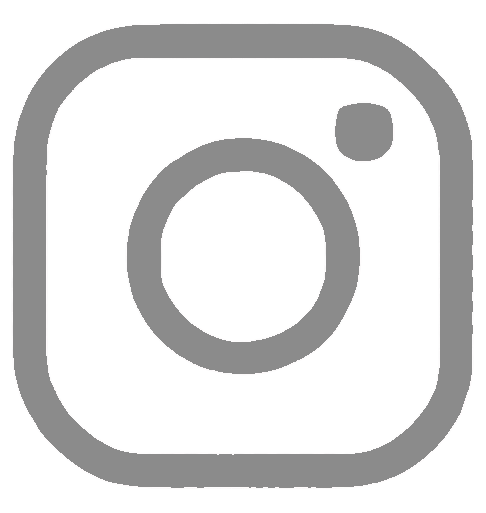
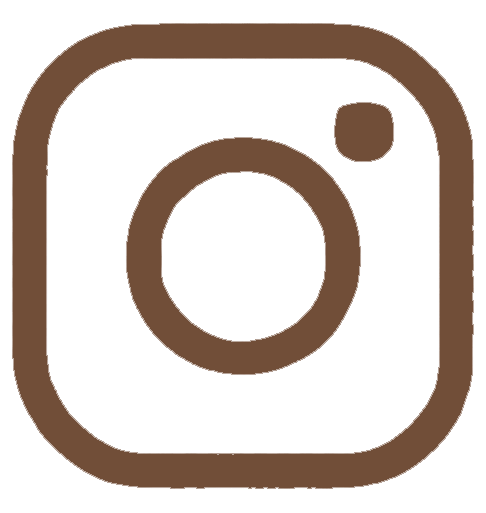
Corrige vercel.json removendo conflito de functions e builds

diff --git a/checkouts/templates/checkout/checkout.html b/checkouts/templates/checkout/checkout.html
@@ -2,15 +2,16 @@
 {% load static %}
 {% block content %}
 
-
 {% load l10n %}
-
-
-
-
 
     <head>
         <link rel="stylesheet" href="{% static 'mutts_styles_checkout.css' %}">
+        
+        <style>
+            :root {
+                --secondary: #714E38 !important;
+            }
+        </style>
     </head>
 
     <form method="POST" action="{% url 'checkouts:validate_cpf' %}" readonly>
@@ -18,7 +19,7 @@
         <input type="hidden" name="price_loggi" value="{{ form.price_loggi.value }}">
         <input type="hidden" name="leadtime_loggi" value="{{ form.leadtime_loggi.value}}">
         <input type="hidden" name="total_loggi" value="{{ form.total_loggi.value }}">
-           
+            
 
         <input type= "hidden" name="product_unit_price" value="{{ form.product_unit_price.value }}">
         <input type="hidden" name="customer_street" value="{{ form.customer_street.value }}">
@@ -41,10 +42,6 @@
         <input type="hidden" name="total_pacmini" value="{{ form.total_pacmini.value }}">   
         <input type="hidden" name="total_pac" value="{{ form.total_pac.value }}"> 
         <input type="hidden" name="total_sedex" value="{{ form.total_sedex.value }}">
-
-
-
-
 
     <div class="grade_product">
         <div class="product_image">
@@ -107,17 +104,8 @@
 
     <h6>FRETE</h6>
     
-    
-    
-    
-    
-    
     <div class="flex_container">
         <div class="freight_container_1">
-
-
-
-
 
             {% if form.price_loggi.value and form.price_loggi.value != "0.00" and form.price_loggi.value != "Unavailable" %}
             <label class="freight_option">
@@ -135,12 +123,6 @@
                 </div>
             </label>
             {% endif %}
-
-
-
-
-
-
 
             {% if form.price_pacmini.value != "0.00" and form.price_pacmini.value != "Unavailable" %}
             <label class="freight_option">
@@ -218,9 +200,6 @@
     </div>
     
 
-    
-
-
     <div class="final_div">
         <div class="terms_use">
             <label for="terms-checkbox">
@@ -248,6 +227,5 @@
     <button type="submit">Ir para Pagamento</button>
     </div>
 </form>
-
 
 {% endblock %}

diff --git a/templates/base_layout.html b/templates/base_layout.html
@@ -1,20 +1,23 @@
 {% load static %}
 <!DOCTYPE html>
 <html>
+  <head>
+      <link rel="stylesheet" href="{% static 'styles.css' %}">
+      <link rel="icon" href="{% static 'favicon.ico' %}">
+      <meta charset="utf-8">
+      
+      <style>
+          .main-header, footer {
+              background-color: #e4d0a8 !important;
+          }
+      </style>
+  </head>
   <body>
-    <head>
-        <link rel="stylesheet" href="{% static 'styles.css' %}">
-        <link rel="icon" href="{% static 'favicon.ico' %}">
-        <meta charset="utf-8">
-    </head>
-
- 
       <div class="main-header">
           <div class="logo_mutts">
-            <img src="{% static 'logo_mutts.png' %}" alt="logo_mutts">
+            <img src="{% static 'logo_mutts.png' %}" width="105" alt="logo_mutts">
           </div>
       </div>
-
 
       <div class="wrapper">
         {% block content %}
@@ -22,7 +25,7 @@
       </div>
 
       <footer>
-        <div class="copyright">Copyright © 2025 Lojinha Mutts</div>
+        <div class="copyright">Copyright © 2026 Mutts Papelaria Pet</div>
         <ul class="social">
             <li>
                 <a href="https://www.instagram.com/muttspets/">
@@ -32,11 +35,5 @@
         </ul>
     </footer>
 
-
-
-
-
-
   </body>
-  
 </html>

diff --git a/assets/styles.css b/assets/styles.css
@@ -39,7 +39,7 @@ html body {
 }
 /* Mobile size for all screens */
 .logo_mutts img {
-  width: 250px; /* Default size */
+  width: 105px; /* Default size */
   height: auto; /* Keeps aspect ratio */
   padding: 20px 0px 10px 0px;
 }
@@ -82,7 +82,7 @@ footer {
 .copyright {
   font-size: 0.8em;
   font-family: Arial, Helvetica, sans-serif;
-  color: #8B8B8B;
+  color: #714E38;
   margin-left: 0px; /* Adds spacing from the left */
   text-align: left;
   justify-content: left;

diff --git a/checkouts/templates/checkouts/precheckout.html b/checkouts/templates/checkouts/precheckout.html
@@ -4,7 +4,11 @@
 
 <head>
     <link rel="stylesheet" href="{% static 'mutts_styles_pckout.css' %}?v={{ timestamp }}">
-    
+    <style>
+        :root {
+            --secondary: #714E38 !important;
+        }
+    </style>
 </head>
     <form method="POST" action="{% url 'checkouts:checkout' %}">
     {% csrf_token %}

diff --git a/assets/mutts_styles_checkout.css b/assets/mutts_styles_checkout.css
@@ -29,7 +29,7 @@ text-decoration: none;
 
 :root{
   --primary: #f2f2f2;
-  --secondary: #0e0080;
+  --secondary: #714E38;
   --shadow: #8B8B8B;
   --placeholder: #dddddd;
 }
